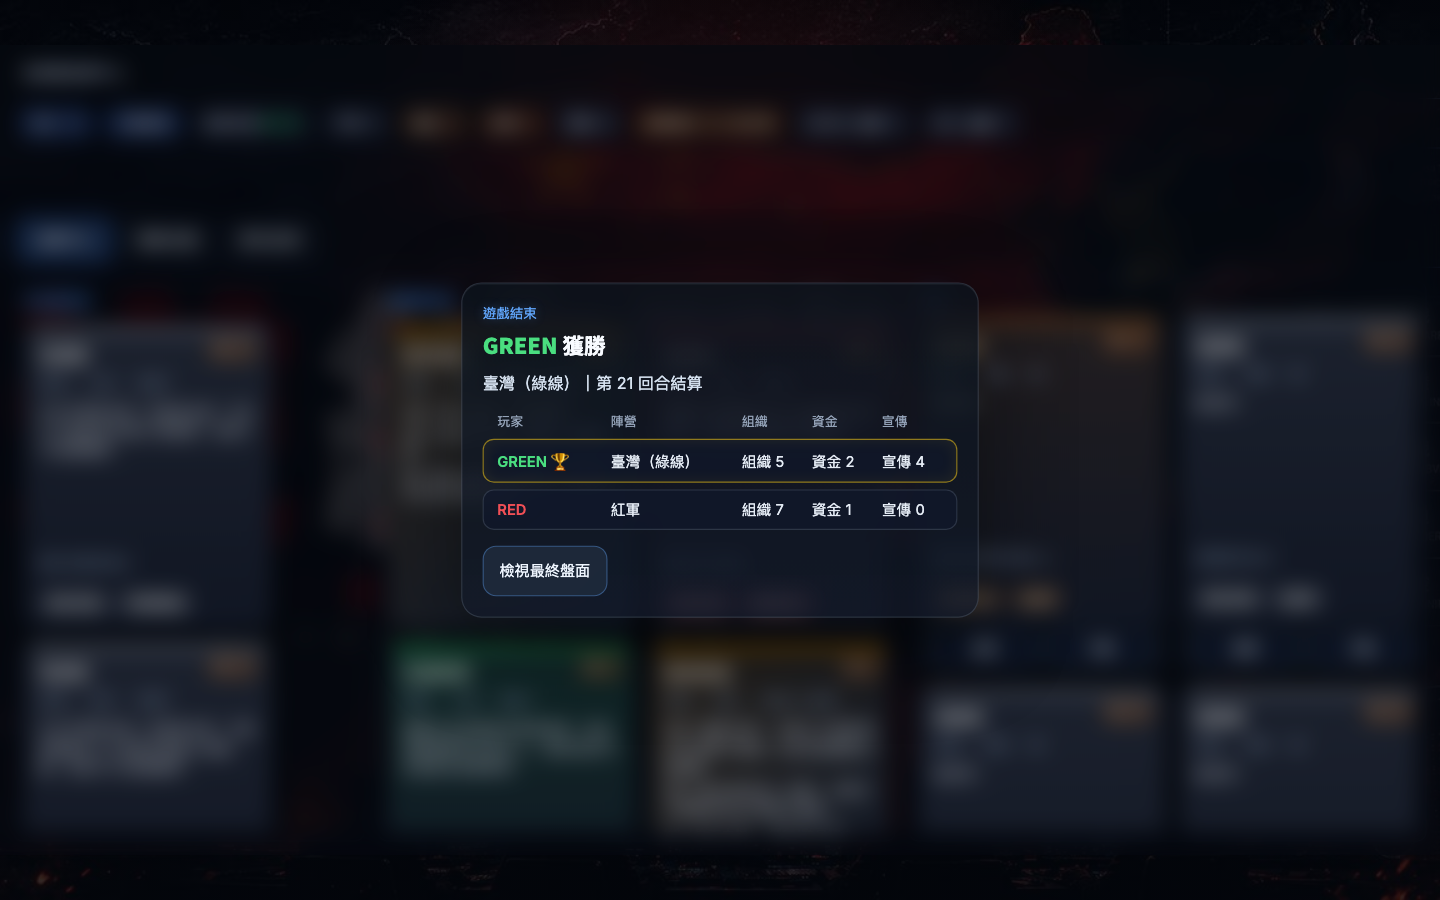
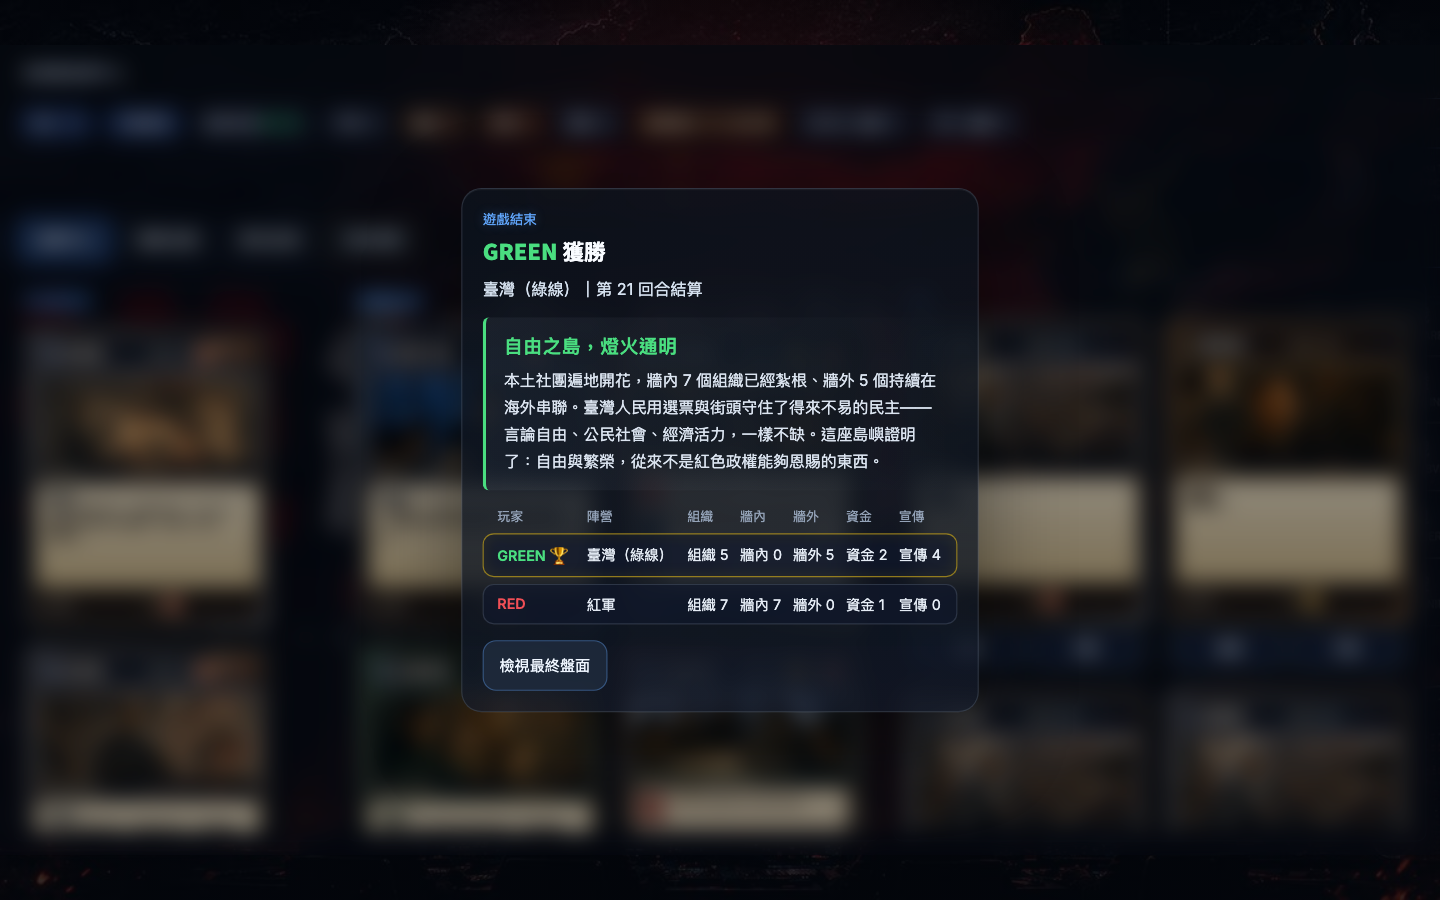
feat: 最後結算畫面顯示牆內/牆外組織數，並依勝利陣營呈現客製化結局敘事
戰況表新增牆內/牆外欄位（沿用既有 organization_counts 後端欄位，
無需改後端）；新增依陣營分類的結局敘事，把牆內外組織總數直接寫進
文字裡，邊框強調色跟著陣營色走。反賊分類下的地方勢力依使用者要求
共用一段「反賊大團結」敘事，不逐一客製化。

diff --git a/static/app.js b/static/app.js
@@ -3005,6 +3005,62 @@ function renderMyEraStageView(state = window.lastGameState || {}) {
 //（20 回合自動桌測發現）。winner 的值是「red_army」或獲勝玩家的名字（見 victory.py）。
 let victoryModalDismissedFor = null;
 
+// 結局敘事（2026-08-06 使用者需求）：依勝利陣營呈現客製化的「大局勢」文字，把牆內/牆外
+// 組織總數直接寫進敘事本身。優先用完整 faction_id（例如 taiwan_green/taiwan_blue 各自
+// 獨立一段），沒有專屬敘事的陣營則退回 factionCategoryOf() 分類（tibet/uyghur 的多個
+// 流亡據點共用同一段、rebel 分類的十幾個地方勢力共用同一套樣板並帶入陣營名稱）。
+const VICTORY_ENDING_NARRATIVES = {
+  red_army: (ctx) => ({
+    title: '紅色鐵幕，籠罩天下',
+    body: `紅軍以絕對優勢碾碎了最後的反抗。牆內組織僅剩 ${ctx.insideWallTotal} 個苟延殘喘，${ctx.outsideWallTotal} 個殘部倉皇退守牆外——但那裡也不再安全。廣播裡只剩一種聲音，街頭只剩一種顏色。這是一個沒有異議、沒有光的年代，其他陣營生靈塗炭，只能在陰影裡等待下一次機會。`,
+  }),
+  taiwan_green: (ctx) => ({
+    title: '自由之島，燈火通明',
+    body: `本土社團遍地開花，牆內 ${ctx.insideWallTotal} 個組織已經紮根、牆外 ${ctx.outsideWallTotal} 個持續在海外串聯。臺灣人民用選票與街頭守住了得來不易的民主——言論自由、公民社會、經濟活力，一樣不缺。這座島嶼證明了：自由與繁榮，從來不是紅色政權能夠恩賜的東西。`,
+  }),
+  taiwan_blue: (ctx) => ({
+    title: '光復大陸，指日可待',
+    body: `自由中國的旗幟重新升起。牆內已滲透 ${ctx.insideWallTotal} 個組織、牆外還有 ${ctx.outsideWallTotal} 個作為後援，反攻大陸的作戰計畫正式啟動——這一次，不再是紙上談兵。街頭巷尾開始流傳同一句話：山河終將光復，只是時間問題。`,
+  }),
+  hong_kong: (ctx) => ({
+    title: '獅子山下，重見天日',
+    body: `牆外 ${ctx.outsideWallTotal} 個組織撐住了最艱難的歲月，牆內 ${ctx.insideWallTotal} 個火種也終於燒了起來。石屎森林裡重新響起熟悉的廣東話與自由的歌聲，這座曾經被高牆包圍的城市，終於等到了屬於自己的黎明。`,
+  }),
+  uyghur: (ctx) => ({
+    title: '東突厥斯坦，重獲自由',
+    body: `牆內 ${ctx.insideWallTotal} 個組織裡的同胞終於走出鐵絲網，牆外 ${ctx.outsideWallTotal} 個離散的聲音也終於被世界聽見。天山南北重新飄揚起屬於自己的旗幟，那些被抹去的語言、信仰與名字，一件一件被找回來。`,
+  }),
+  tibet: (ctx) => ({
+    title: '雪域高原，經幡再揚',
+    body: `牆內 ${ctx.insideWallTotal} 個組織守住了寺院與村莊，牆外 ${ctx.outsideWallTotal} 個流亡多年的聲音終於等到歸鄉的消息。雪山之巔重新掛起五色經幡，誦經聲隨風傳遍整片高原——雪域重光，不再只是一句口號。`,
+  }),
+  manchuria: (ctx) => ({
+    title: '白山黑水，滿洲復國',
+    body: `牆內 ${ctx.insideWallTotal} 個組織、牆外 ${ctx.outsideWallTotal} 個海外力量終於等到這一天。白山黑水之間重新立起屬於滿洲的旗幟，那段被刻意遺忘的歷史，終於有人願意重新提起、重新書寫。`,
+  }),
+  mongol: (ctx) => ({
+    title: '長生天下，重歸一統',
+    body: `牆內 ${ctx.insideWallTotal} 個組織一路串聯到了內蒙古的每一座敖包，牆外 ${ctx.outsideWallTotal} 個力量也隨之呼應——大蒙古的版圖不再只存在於史書裡。草原重新連成一片，連內蒙古都一併囊括其中，長生天下，終於再次一統。`,
+  }),
+  kazakh: (ctx) => ({
+    title: '伊犁河畔，重見天日',
+    body: `牆內 ${ctx.insideWallTotal} 個組織撐過了最漫長的寒冬，牆外 ${ctx.outsideWallTotal} 個力量隨即呼應而來。伊犁河谷重新響起哈薩克的牧歌，那些消失在集中營裡的名字，終於一個一個被找回、被記得。`,
+  }),
+  // 使用者要求（2026-08-06）：反賊分類底下十幾個地方勢力（滇/苗/傣/晉/齊/吳越/粵…等）
+  // 不需要各自獨立一段敘事，統一用「反賊大團結」的角度呈現——以實際獲勝的那個陣營為
+  // 號召者，但強調是全體反抗勢力聯合的成果，不是單一地方勢力獨吞天下。
+  rebel: (ctx) => ({
+    title: '烽火燎原，反賊大團結',
+    body: `牆內 ${ctx.insideWallTotal} 個地下組織、牆外 ${ctx.outsideWallTotal} 個海外力量紛紛響應——以${ctx.winnerFactionName}為首，各地反抗勢力放下彼此的歧異，結成統一戰線。從西南到東北，烽火在紅色版圖上連成一片，紅軍再也無法各個擊破。這是屬於全體反賊的勝利，不是任何一方的獨吞。`,
+  }),
+};
+
+function victoryEndingNarrative(factionId, ctx) {
+  if (!factionId) return null;
+  const template = VICTORY_ENDING_NARRATIVES[factionId] || VICTORY_ENDING_NARRATIVES[factionCategoryOf(factionId)];
+  return template ? template(ctx) : null;
+}
+
 function renderVictoryModal(state) {
   const overlay = document.getElementById('victoryModal');
   const badge = document.getElementById('victoryBadge');
@@ -3045,9 +3101,37 @@ function renderVictoryModal(state) {
     coEl.style.display = 'none';
   }
 
+  // 牆內/牆外組織總數（2026-08-06 使用者需求）：彙整全體玩家的 organization_counts
+  // （既有欄位，server/game.py 的 _player_organization_scope_counts()），直接寫進結局
+  // 敘事本身，而不只是列在表格裡。
+  const insideWallTotal = players.reduce((sum, p) => sum + (p.organization_counts?.inside_wall ?? 0), 0);
+  const outsideWallTotal = players.reduce((sum, p) => sum + (p.organization_counts?.outside_wall ?? 0), 0);
+
+  const endingEl = document.getElementById('victoryEnding');
+  const endingTitleEl = document.getElementById('victoryEndingTitle');
+  const endingBodyEl = document.getElementById('victoryEndingBody');
+  if (endingEl && endingTitleEl && endingBodyEl) {
+    const ending = victoryEndingNarrative(winnerFaction, {
+      insideWallTotal,
+      outsideWallTotal,
+      winnerFactionName: factionText,
+    });
+    if (ending) {
+      endingEl.style.display = 'block';
+      endingEl.style.setProperty('--victory-ending-accent', winnerColor);
+      endingTitleEl.textContent = ending.title;
+      endingBodyEl.textContent = ending.body;
+    } else {
+      endingEl.style.display = 'none';
+    }
+  }
+
   const summary = document.getElementById('victorySummary');
   const rows = players.map(p => {
-    const totalOrgs = Object.values(p.orgs || {}).reduce((a, b) => a + b, 0);
+    const orgCounts = p.organization_counts || {};
+    const totalOrgs = orgCounts.total ?? Object.values(p.orgs || {}).reduce((a, b) => a + b, 0);
+    const insideWall = orgCounts.inside_wall ?? 0;
+    const outsideWall = orgCounts.outside_wall ?? Math.max(0, totalOrgs - insideWall);
     const color = factionNameColor(p.faction) || '#e5ecf5';
     const isWinner = winnerPlayer ? p.name === winnerPlayer.name : false;
     return `
@@ -3055,13 +3139,15 @@ function renderVictoryModal(state) {
         <span class="victory-player-name" style="color:${color}">${escapeHtml(p.name)}${isWinner ? '&nbsp;🏆' : ''}</span>
         <span>${escapeHtml(factionDisplayName(p.faction))}</span>
         <span>組織 ${totalOrgs}</span>
+        <span>牆內 ${insideWall}</span>
+        <span>牆外 ${outsideWall}</span>
         <span>資金 ${p.resources?.money ?? 0}</span>
         <span>宣傳 ${p.resources?.propaganda ?? 0}</span>
       </div>`;
   }).join('');
   summary.innerHTML = `
     <div class="victory-summary-row header">
-      <span>玩家</span><span>陣營</span><span>組織</span><span>資金</span><span>宣傳</span>
+      <span>玩家</span><span>陣營</span><span>組織</span><span>牆內</span><span>牆外</span><span>資金</span><span>宣傳</span>
     </div>${rows}`;
 
   badge.style.display = 'none';

diff --git a/static/style.css b/static/style.css
@@ -2604,7 +2604,31 @@ button.player-status-discard-card:focus-visible {
 /* 勝利畫面（2026-07-19：20 回合自動桌測發現遊戲結束毫無提示，補上結束畫面） */
 .victory-glass {
   min-width: 460px;
-  max-width: 560px;
+  max-width: 660px;
+}
+
+/* 結局敘事（2026-08-06 使用者需求）：依勝利陣營呈現客製化的「大局勢」文字，把牆內/牆外
+   組織總數直接寫進敘事本身，比照卡牌遊戲常見的史詩感 epilogue 呈現。 */
+.victory-ending {
+  margin: 4px 0 14px;
+  padding: 14px 16px;
+  border-left: 3px solid var(--victory-ending-accent, rgba(250, 204, 21, 0.7));
+  border-radius: 6px;
+  background: linear-gradient(90deg, rgba(148, 163, 184, 0.08), transparent);
+}
+
+.victory-ending-title {
+  font-size: 1.05rem;
+  font-weight: 800;
+  color: var(--victory-ending-accent, #fef3c7);
+  margin-bottom: 6px;
+  letter-spacing: 0.02em;
+}
+
+.victory-ending-body {
+  font-size: 0.88rem;
+  line-height: 1.7;
+  color: #dbe4f0;
 }
 
 .victory-summary {
@@ -2615,14 +2639,14 @@ button.player-status-discard-card:focus-visible {
 
 .victory-summary-row {
   display: grid;
-  grid-template-columns: 1.2fr 1.4fr repeat(3, 0.7fr);
+  grid-template-columns: 1.1fr 1.25fr repeat(5, 0.6fr);
   gap: 8px;
   align-items: center;
   padding: 8px 12px;
   border: 1px solid rgba(148, 163, 184, 0.22);
   border-radius: 10px;
   background: rgba(15, 23, 42, 0.66);
-  font-size: 0.82rem;
+  font-size: 0.8rem;
 }
 
 .victory-summary-row.header {

diff --git a/static/index.html b/static/index.html
@@ -210,6 +210,10 @@
     <div id="victoryTitle" class="modal-title-text"></div>
     <div id="victorySubtitle" class="modal-body-text"></div>
     <div id="victoryCoWinners" class="modal-body-text" style="display:none;"></div>
+    <div id="victoryEnding" class="victory-ending" style="display:none;">
+      <div id="victoryEndingTitle" class="victory-ending-title"></div>
+      <div id="victoryEndingBody" class="victory-ending-body"></div>
+    </div>
     <div id="victorySummary" class="victory-summary"></div>
     <div class="era-achievement-actions">
       <button id="victoryMinimizeBtn" class="modal-choice-btn">檢視最終盤面</button>

diff --git a/TODO.md b/TODO.md
@@ -18,7 +18,12 @@
 ## 目前 active todo
 
 ### P2：最後結算畫面應顯示牆內/牆外組織數量，並依勝利陣營呈現華麗客製化結局敘事
-- [todo] 使用者需求：最後結算畫面，應該要直接顯示牆內和牆外組織數量。我需要華麗一點的畫面，比如說，紅軍贏了，其他陣營生靈塗炭；台灣綠線陣營贏了，台灣人民自由民主進步富裕。台灣藍線陣營贏了，開始規劃反攻大陸。蒙古贏了，連內蒙古都囊括其中。諸如此類的東西。（2026-08-06 使用者提出，先記錄，尚未調查）
+- [done] 使用者需求：最後結算畫面，應該要直接顯示牆內和牆外組織數量。我需要華麗一點的畫面，比如說，紅軍贏了，其他陣營生靈塗炭；台灣綠線陣營贏了，台灣人民自由民主進步富裕。台灣藍線陣營贏了，開始規劃反攻大陸。蒙古贏了，連內蒙古都囊括其中。諸如此類的東西。（2026-08-06 使用者提出並要求分兩塊處理）
+  - **分工**：使用者明確要求分兩塊處理——(1) 牆內/牆外組織數量顯示、(2) 依勝利陣營客製化的結局敘事。稽核發現 (1) 後端資料本來就已經存在：`server/game.py` 的 `state()` 序列化每位玩家時已經帶著 `organization_counts`（`_player_organization_scope_counts(p)`，回傳 `{total, inside_wall, outside_wall}`），純粹是前端從未拿來顯示過，不需要任何後端改動。
+  - **(1) 前端顯示（`static/app.js` `renderVictoryModal`／`static/style.css` `.victory-summary-row`）**：戰況表從原本 5 欄（玩家/陣營/組織/資金/宣傳）擴充成 7 欄，插入「牆內」「牆外」兩欄，直接讀 `p.organization_counts.inside_wall`／`.outside_wall`（缺欄位時保底用 `total - inside_wall` 換算，不會顯示負數）；`.victory-glass` 加寬到 660px 容納新欄位。
+  - **(2) 結局敘事（`static/app.js` 新增 `VICTORY_ENDING_NARRATIVES` + `victoryEndingNarrative()`）**：陣營先歸類再套模板，複用既有的 `factionCategoryOf()`（與 `/factions` 後端回傳的 category 完全對應：`red_army`/`taiwan`/`hong_kong`/`uyghur`/`tibet`/`manchuria`/`mongol`/`kazakh`/`rebel` 共 9 類）——`taiwan_green`／`taiwan_blue` 用完整 faction_id 各自寫一段（因為使用者明確要綠線/藍線兩種不同敘事），其餘 7 類（含西藏 3 個流亡據點、維吾爾 4 個海外據點共用各自 1 段）用類別鍵。敘事文字直接把彙總後的 `insideWallTotal`／`outsideWallTotal`（`players.reduce()` 加總全體玩家的 `organization_counts`）寫進句子本身，不只是列在表格裡——例如紅軍獲勝敘事會寫「牆內組織僅剩 N 個苟延殘喘」，蒙古獲勝敘事會寫「連內蒙古都一併囊括其中」呼應使用者原文用詞。敘事區塊（`#victoryEnding`，新增於 `index.html`）用左側色條＋標題色跟著 `winnerColor`（陣營代表色）走，視覺上與獲勝陣營一致。
+    - **使用者中途回饋並簡化**：原本規劃反賊分類底下 18 個地方勢力（滇/苗/傣/晉/齊/吳越/粵…等）比照西藏/維吾爾模式各自帶入陣營名稱寫一段「{陣營}獨立建國」；使用者中途表示「反賊做一個版本就好，不必個別做，可以先做一個反賊大團結之類的版本」，改為統一一段「烽火燎原，反賊大團結」敘事，以實際獲勝的地方勢力為號召者但強調「這是屬於全體反賊的勝利，不是任何一方的獨吞」，不用再幫 18 個地方勢力各寫一段。
+  - 驗證：Playwright 對真實瀏覽器——(a) 直接呼叫 `victoryEndingNarrative()` 對 11 個代表性 faction_id（含西藏/維吾爾的不同據點變體、2 個反賊子陣營）驗證都能正確解析、關鍵字比對（紅軍「生靈塗炭」、綠線「自由」+「繁榮」、藍線「反攻大陸」、蒙古「內蒙古」）、西藏/維吾爾不同據點共用同一段、反賊 2 個子陣營共用同一段標題文字、牆內外數字有正確帶入文字；(b) 用既有 `/test/setup-victory-proof` 測試端點實際跑兩場對局（綠線獲勝、紅軍獲勝），確認戰況表牆內/牆外欄位數字正確（GREEN 牆內0牆外5、RED 牆內7牆外0，對應臺北/桃園在牆外、北京/天津在牆內）、結局敘事標題與內文正確顯示、邊框強調色跟著陣營色切換。共 13 項檢查全過。另外重跑既有 `scripts/validate_victory_screen_and_creator_name.py`（5/5，確認新增的表格欄位沒有打壞既有的行數/標題/縮小徽章斷言）。完整 pytest（同 baseline ignore 清單）**280/280 全過**（無變動，純前端新增功能，`organization_counts` 欄位是既有後端資料）。
 
 ### P2：其他玩家使用能力/卡牌時，應該跳出可縮小的通知視窗，顯示卡牌圖片
 - [done] 使用者需求：當某一玩家使用能力和卡牌時，其他玩家應該也要直接跳出視窗，看到其他人正在做什麼，使用什麼能力和卡牌，卡牌的圖片要秀出來。不想看可以縮到左下角，變一個小視窗。（2026-08-06 使用者提出並要求處理）
